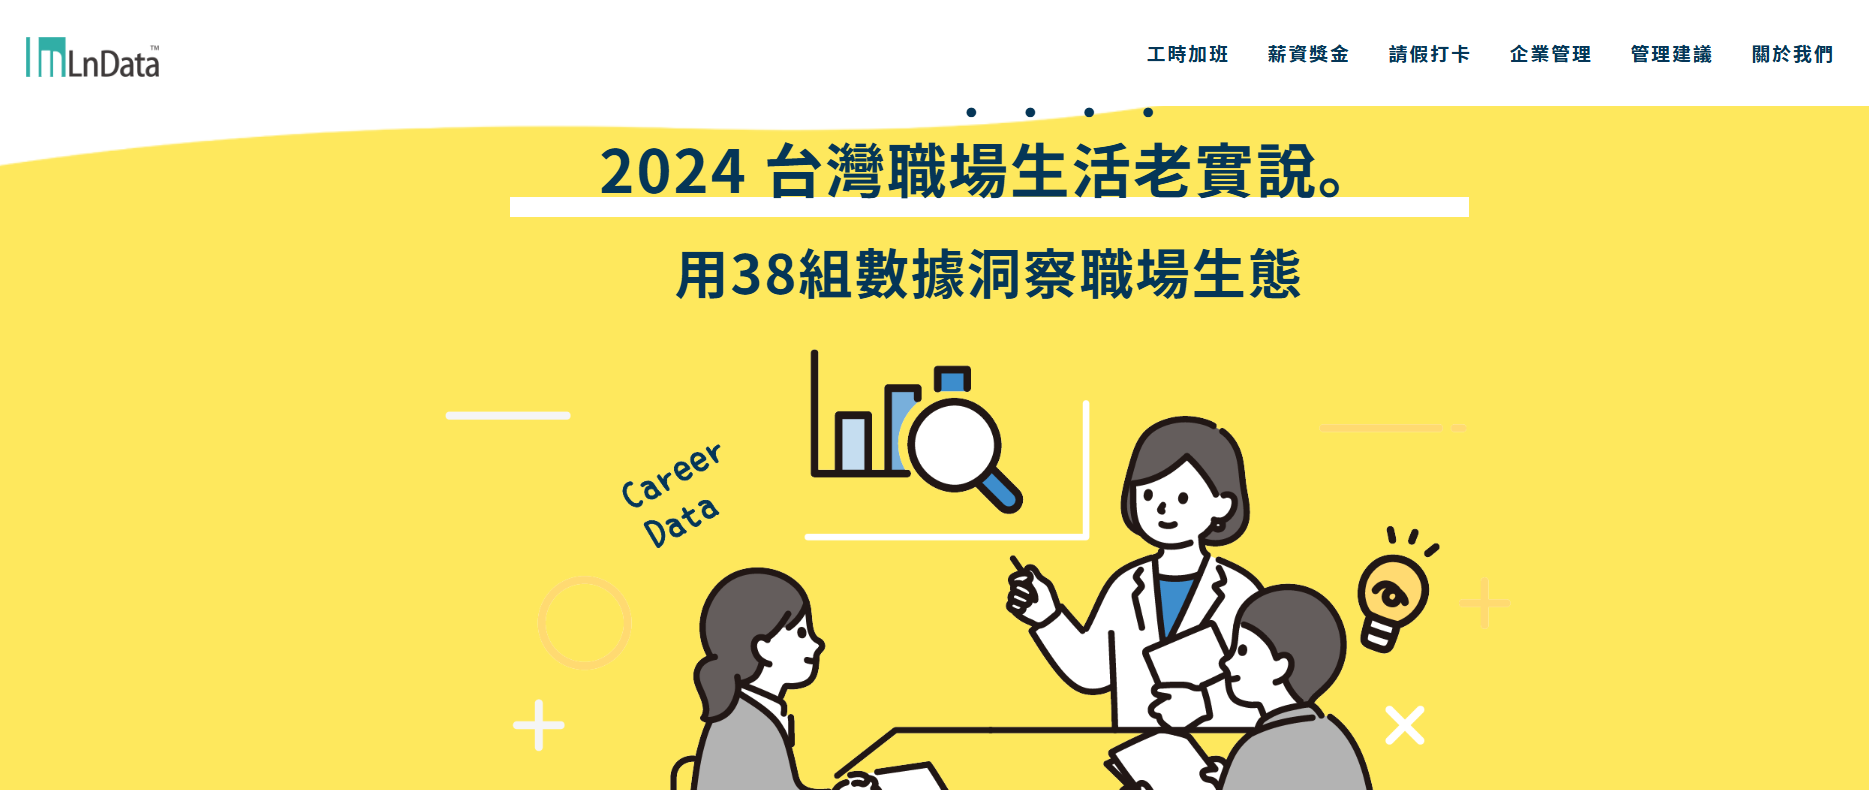
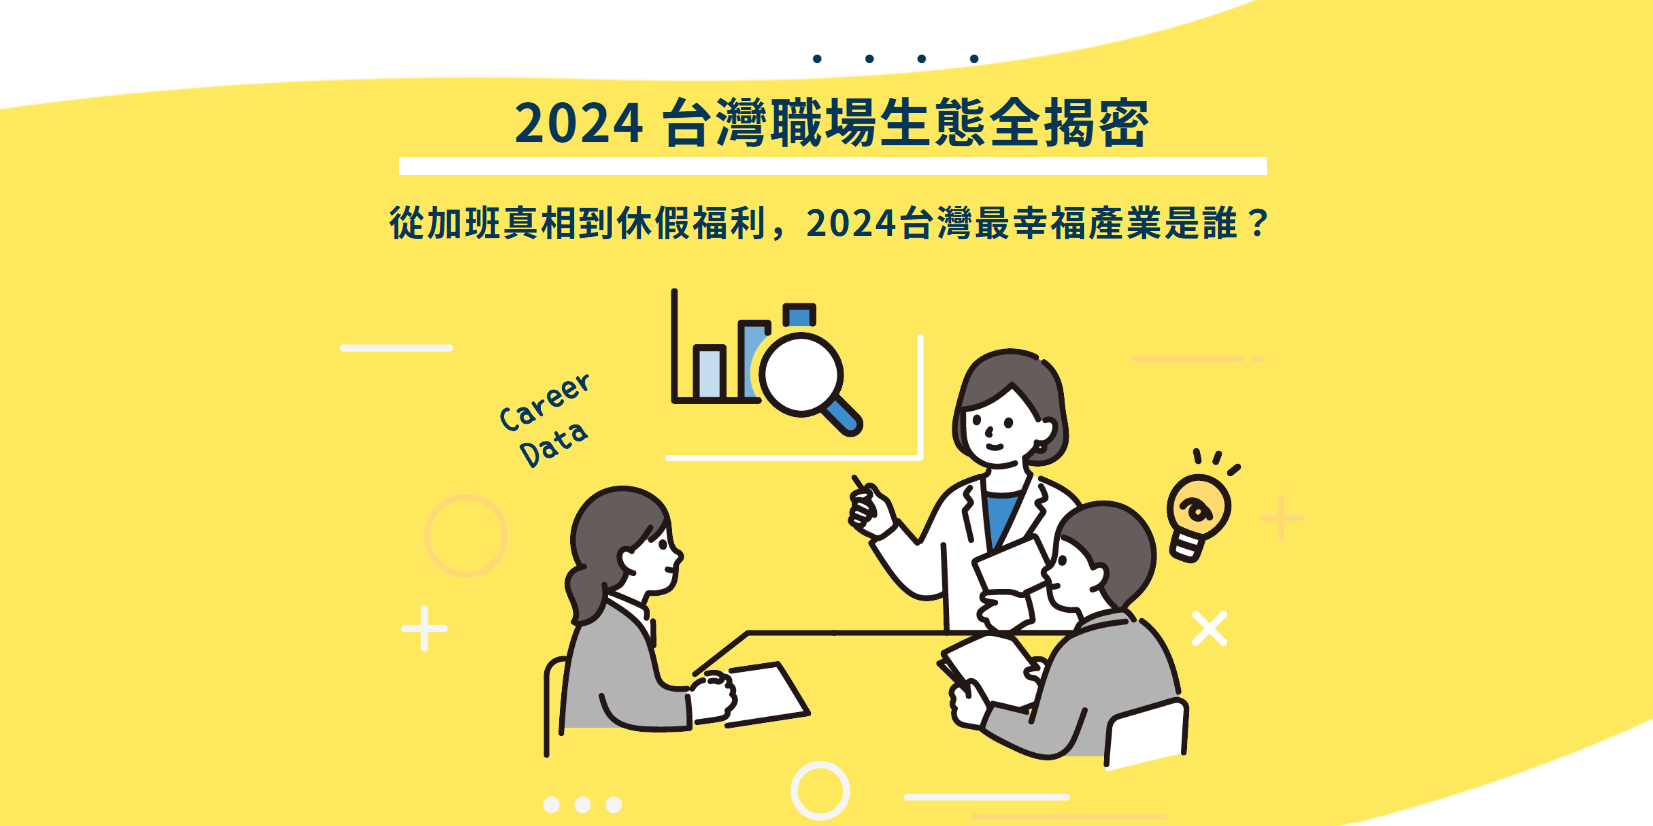
beta 1.2

diff --git a/index.html b/index.html
@@ -11,26 +11,46 @@
 
     <link rel="icon" href="favicon.png" type="image/x-icon">
     <link media="all" href="./css/auto.css" rel="stylesheet" />
-    <title>2024 台灣職場生態全揭密</title>
-    <meta name="description" content="大部分的我們都是上班族、勞方、打工仔、社畜...隨便你怎麼說，在這日復一日的工作中，你是否好奇撇除工作內容以外，自己的職場體驗跟別人有何異同? 現在就讓我們透過數據來一探究竟、赤裸揭密吧！" />
+    <title>2024 台灣職場生態全揭密：從加班真相到休假福利，2024台灣最幸福產業是誰？</title>
+    <meta name="description" content="大部分的我們都是上班族、勞方、打工仔、社畜...隨便你怎麼說，在這日復一日的工作中，你是否好奇撇除工作內容以外，自己的職場體驗跟別人有何異同? 2024 台灣職場生態數據分析，將透過獨家市調與百萬字社群數據來帶你一探究竟！" />
 	<meta name="keywords" content="台灣職場生態,台灣 職場 數據 分析,職場 數據,職場 調查,HR管理,人力資源管理,職場數據專題,LnData 麟數據科技,NUEIP 人易科技" />
     <meta name="author" content="LnData 麟數據科技" />
     <link rel="bookmark" href="https://github.com/LnDataTech/taiwan-career/blob/main/favicon.ico">
 	<link rel="shortcut icon" href="https://github.com/LnDataTech/taiwan-career/blob/main/favicon.ico" >
 
     <meta property="og:title" content="2024 台灣職場生態全揭密：從加班真相到休假福利，2024台灣最幸福產業是誰？"/>
-	<meta property="og:image" content="https://raw.githubusercontent.com/LnDataTech/taiwan-drink/main/assets/cover.png"/>
+	<meta property="og:image" content="https://lndatatech.github.io/taiwan-career/assets/cover.png"/>
 	<meta property="og:url" content="https://lndatatech.github.io/taiwan-career"/>
 	<meta property="og:site_name" content="www.lndata.com"/>
 	<meta property="og:description" content="大部分的我們都是上班族、勞方、打工仔、社畜...隨便你怎麼說，在這日復一日的工作中，你是否好奇撇除工作內容以外，自己的職場體驗跟別人有何異同? 現在就讓我們透過數據來一探究竟、赤裸揭密吧！"/>
 	<meta name="twitter:site" content="@LnData_Official" />
-	<meta name="twitter:image" content="https://raw.githubusercontent.com/LnDataTech/taiwan-drink/main/assets/cover.png" />
+	<meta name="twitter:image" content="https://lndatatech.github.io/taiwan-career/assets/cover.png" />
 	<meta name="twitter:card" content="summary_large_image" />
+    <meta name="twitter:title" content="2024 台灣職場生態全揭密：從加班真相到休假福利" />
+    <meta name="twitter:description" content="透過數據深度解析台灣職場生態，全方位揭密加班、休假與最幸福的產業。" />
    
     <link rel="stylesheet" type="text/css" href="https://stackpath.bootstrapcdn.com/font-awesome/4.7.0/css/font-awesome.min.css" integrity="sha384-wvfXpqpZZVQGK6TAh5PVlGOfQNHSoD2xbE+QkPxCAFlNEevoEH3Sl0sibVcOQVnN" crossorigin="anonymous" />
     <link rel="stylesheet" type="text/css" href="./css/common.css" />
     <link rel="stylesheet" type="text/css" href="./css/fonts.css" />
     <link rel="stylesheet" type="text/css" href="./css/style.css" />
+
+    <!-- Schema Markup -->
+    <script type="application/ld+json">
+        {
+          "@context": "http://schema.org",
+          "@type": "WebPage",
+          "name": "2024 台灣職場生態全揭密",
+          "description": "2024年台灣職場生態剖析，探討職場數據、加班情況及休假福利，揭開各行業的幸福指數。",
+          "publisher": {
+            "@type": "Organization",
+            "name": "LnData 麟數據科技",
+            "logo": {
+              "@type": "ImageObject",
+              "url": "https://lndatatech.github.io/taiwan-career/assets/logo.png"
+            }
+          }
+        }
+    </script>
 
     <!-- Google tag (gtag.js) -->
     <script async src="https://www.googletagmanager.com/gtag/js?id=G-QHXDC2NF67"></script>
@@ -1030,6 +1050,9 @@
                 <div class="screenshotWrapper">
                     <img class="screenshotImage" src="./assets/theme2_top_2_8.png" alt="產業增幅top3" />
                 </div>
+                
+            </div>
+            <div class="contentContainer">
                 <div class="statisticsWrapper">
                     <div class="statisticsContent1">
                         <div class="statisticsHeader1">

diff --git a/css/style.css b/css/style.css
@@ -2604,7 +2604,7 @@ image13 {
   visibility: hidden;
   transition: all 0.6s ease-in-out;
   opacity: 0;
-  top: 65%; 
+  top: 69%; 
   left: 85%; 
   z-index: 1; 
 }
@@ -2615,7 +2615,7 @@ image13 {
 }
 
 .qaItem.open .overlayImage:hover {
-  transform: scale(69%) translateX(20%) translateY(10%) !important;
+  transform: scale(64%) translateX(20%) translateY(10%) !important;
   opacity: 0.6;
 }
 
@@ -2656,7 +2656,7 @@ image13 {
   }
 
 #amber {
-  transform: scale(69%) translateX(17%);
+  transform: scale(64%) translateX(17%);
 }
 
 .storyBackgroundTitle {
@@ -4266,7 +4266,8 @@ image13 {
 }
 
 .Section_2_5 .contentContainer,
-.Section_2_6 .contentContainer {
+.Section_2_6 .contentContainer,
+.Section_2_8 .contentContainer {
   display: flex; 
   flex-direction: column;
   align-items: center;
@@ -4604,6 +4605,7 @@ image13 {
   .Section_2_7,
   .Section_2_9,
   .Section_3_1,
+  .Section_3_2,
   .Section_3_3,
   .Section_3_4,
   .Section_3_5,
